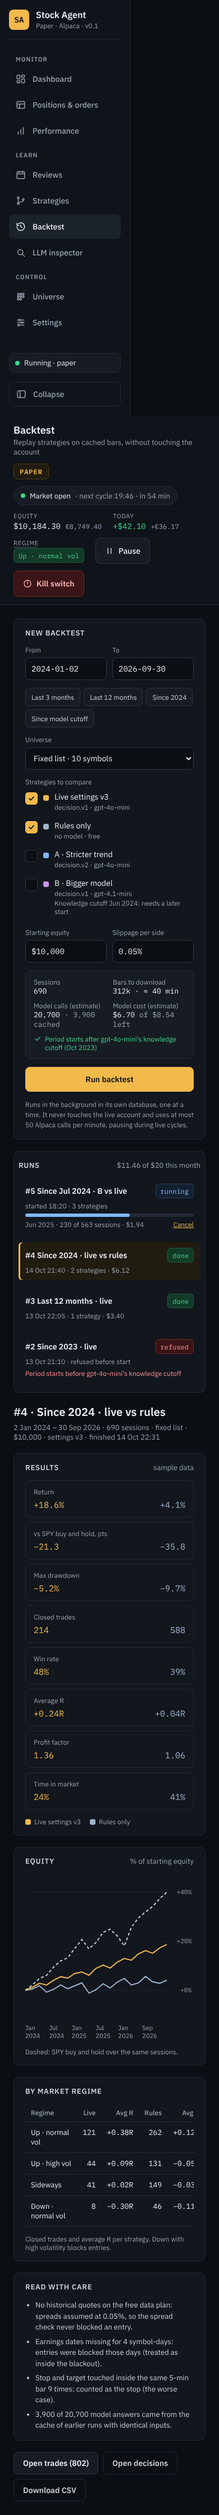
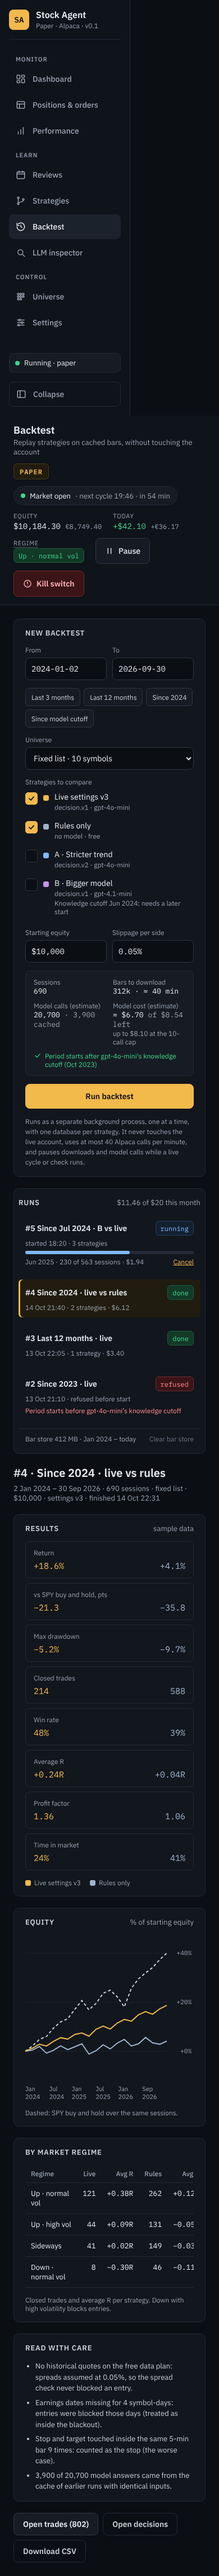
Spec change

diff --git a/design/screens/Backtest.dc.html b/design/screens/Backtest.dc.html
@@ -114,11 +114,11 @@ table{border-collapse:collapse}
     <div><div style="font-size: 12px; color: #98A2AF">Sessions</div><div style="font-family: 'IBM Plex Mono', monospace">690</div></div>
     <div><div style="font-size: 12px; color: #98A2AF">Bars to download</div><div style="font-family: 'IBM Plex Mono', monospace">312k · ≈ 40 min</div></div>
     <div><div style="font-size: 12px; color: #98A2AF">Model calls (estimate)</div><div style="font-family: 'IBM Plex Mono', monospace">20,700 <span style="color: #98A2AF">· 3,900 cached</span></div></div>
-    <div><div style="font-size: 12px; color: #98A2AF">Model cost (estimate)</div><div style="font-family: 'IBM Plex Mono', monospace">$6.70 <span style="color: #98A2AF">of $8.54 left</span></div></div>
+    <div><div style="font-size: 12px; color: #98A2AF">Model cost (estimate)</div><div style="font-family: 'IBM Plex Mono', monospace">≈ $6.70 <span style="color: #98A2AF">of $8.54 left</span></div><div style="font-size: 12px; color: #98A2AF">up to $8.10 at the 10-call cap</div></div>
     <div style="grid-column: 1 / -1; display: flex; gap: 6px; align-items: flex-start; color: #3DD68C; font-size: 12px"><svg width="14" height="14" viewBox="0 0 24 24" fill="none" stroke="currentColor" stroke-width="2" stroke-linecap="round" stroke-linejoin="round" aria-hidden="true" style="flex: 0 0 14px"><polyline points="5 12 10 17 19 7"></polyline></svg><span>Period starts after gpt-4o-mini's knowledge cutoff (Oct 2023)</span></div>
   </div>
   <button type="button" style="height: 44px; padding: 0 16px; display: inline-flex; align-items: center; justify-content: center; gap: 8px; border-radius: 8px; border: 1px solid #F2B94B; background: #F2B94B; color: #0B0E13; font-size: 14px; font-weight: 600; text-decoration: none; cursor: pointer; white-space: nowrap; box-sizing: border-box"><span>Run backtest</span></button>
-  <span style="font-size: 12px; color: #98A2AF; line-height: 1.5">Runs in the background in its own database, one at a time. It never touches the live account and uses at most 50 Alpaca calls per minute, pausing during live cycles.</span>
+  <span style="font-size: 12px; color: #98A2AF; line-height: 1.5">Runs as a separate background process, one at a time, with one database per strategy. It never touches the live account, uses at most 40 Alpaca calls per minute, and pauses downloads and model calls while a live cycle or check runs.</span>
 </div>
 </section>
     <section aria-label="Runs" style="background: #12161D; border: 1px solid #232A35; border-radius: 10px; padding: 16px 8px; display: flex; flex-direction: column; gap: 14px; min-width: 0; box-sizing: border-box">
@@ -136,7 +136,7 @@ table{border-collapse:collapse}
 </div><div style="display: flex; flex-direction: column; gap: 6px; padding: 10px 12px; border-radius: 6px; ">
   <div style="display: flex; justify-content: space-between; gap: 8px; align-items: center"><span style="font-weight: 600; font-size: 14px">#2 Since 2023 · live</span><span style="display: inline-flex; align-items: center; height: 24px; padding: 0 8px; border-radius: 6px; font-family: 'IBM Plex Mono', monospace; font-size: 12px; white-space: nowrap; background: #3A1416; color: #FF8A8F; border: 1px solid #7A2A2E">refused</span></div>
   <span style="font-size: 12px; color: #98A2AF">13 Oct 21:10 · refused before start</span><span style="font-size: 12px; color: #FF8A8F">Period starts before gpt-4o-mini’s knowledge cutoff</span>
-</div>
+</div><div style="display: flex; justify-content: space-between; gap: 8px; padding: 10px 12px 2px; border-top: 1px solid #232A35; font-size: 12px; color: #98A2AF"><span>Bar store 412 MB · Jan 2024 – today</span><span title="Only when no backtest is running" style="color: #6B7480; white-space: nowrap">Clear bar store</span></div>
 </section>
   </div>
   <div style="flex: 999 1 560px; min-width: 0; display: flex; flex-direction: column; gap: 20px">

diff --git a/docs/SPEC.md b/docs/SPEC.md
@@ -370,18 +370,18 @@ SQLite, one file, migrations with Alembic. Times are stored in UTC; money as dec
 | `corporate_actions` | symbol, type, date, ratio or amount |
 | `settings_versions` | version, settings JSON, changed at, reason |
 | `strategies` | name, kind (llm or rules_only), prompt version, model, temperature, rule and check overrides JSON, status (active, paused, archived), created, archived at (v0.2) |
-| `shadow_decisions` | strategy, cycle, symbol, context, live decision (shares its input snapshot), model output JSON, final action, gates result, tokens, cost, missed and its reason (time or cost_cap) (v0.2) |
+| `shadow_decisions` | strategy, cycle, symbol, context, live decision (shares its input snapshot), own input snapshot (only for a symbol only a shadow holds), model output JSON, final action, gates result, tokens, cost, missed and its reason (time or cost_cap) (v0.2) |
 | `shadow_positions` | strategy, symbol, qty, entry, stop, target, opened, closed, exit reason, R (v0.2) |
 | `shadow_equity` | strategy, time, equity (v0.2) |
-| `backtests` | name, period, universe mode, strategies JSON, starting equity, slippage, status, progress, cost, run database path, warnings JSON, summary JSON, created, finished (v0.2) |
-| `llm_cache` | key hash (model, temperature, prompt version and hash, input snapshot hash), response JSON, tokens, created (v0.2) |
+| `backtests` | name, period, universe mode, strategies JSON, starting equity, slippage, status (queued, downloading, running, done, cancelled, stopped at cost cap, interrupted, refused), progress, cost, run folder path, process id, cancel and pause flags, size on disk, warnings JSON, summary JSON, created, finished (v0.2) |
+| `llm_cache` | key hash (model, temperature, prompt version and hash, input snapshot hash), model, temperature, prompt hash, cycle time, response JSON, tokens, created (v0.2) |
 | `universe_pool` | symbol, sector, source (default, added or import), added at, removed at (v0.2) |
 | `universe_screens` | session date, symbol, status (eligible, excluded or warming_up), check results JSON, last close, average dollar volume, return vs SPY, rank, failed screens in a row (v0.2) |
 | `notifications` | time, event, severity, subject, channels, status per channel (sent, failed, held back, quiet hours), error |
 | `secrets` | name (alpaca_key_id, alpaca_secret, openai, finnhub, smtp_password), encrypted value, last 4 characters, saved at, tested at, test result |
 | `events` | time, level, type (reconciliation, kill switch, error, acknowledgment), details JSON |
 
-A daily copy of the database is made at 03:00 Amsterdam time with SQLite's online backup API (never a plain file copy, which can catch a write half-done), checked with `PRAGMA integrity_check`, and kept for 14 days. Migrations are never edited once merged; a schema change is always a new revision. At startup the app compares the schema with the models and refuses to start with a clear message if they differ.
+Every connection uses WAL mode and a busy timeout (`storage.sqlite_busy_timeout_seconds`, 30). No job keeps a write transaction open while it waits for a model call or any other network call. A daily copy of the database is made at 03:00 Amsterdam time with SQLite's online backup API (never a plain file copy, which can catch a write half-done), checked with `PRAGMA integrity_check`, and kept for 14 days. Migrations are never edited once merged; a schema change is always a new revision. At startup the app compares the schema with the models and refuses to start with a clear message if they differ.
 
 ## Testing and engineering rules
 
@@ -414,7 +414,7 @@ Ten PRs for v0.1, each reviewable on its own; v0.2 continues with PR 11 to 14. P
 11. **Pool and liquidity screen (v0.2).** `universe_pool` and `universe_screens`, pool loading from `pool.csv`, add/import/remove, warm-up, daily screen with hysteresis, rank, universe mode in Settings, Universe screen. Default mode stays `fixed`. *Done when:* in simulated mode the screen over the 72-symbol pool gives the expected statuses, and fixed mode is unchanged.
 12. **Cycles at scale (v0.2).** Cycles over eligible plus held symbols, multi-symbol bar requests, model calls in rank order, cycle duration and warning, 5-min bar pruning, dashboard watchlist filters and search. *Done when:* a simulated session with the 72-symbol pool keeps every cycle under 10 minutes and under 150 Alpaca calls per minute, and every held position is handled.
 13. **Strategies and shadows (v0.2).** `strategies`, shadow runner after each live cycle, virtual portfolios and fills, rules-only baseline, shadow cost cap, comparison and disagreements, Promote to live via Settings, Strategies screen. *Done when:* in simulated mode two shadows and the rules-only baseline run alongside live for a full session without delaying any live cycle, and a test proves the shadow code cannot reach the broker.
-14. **Backtesting (v0.2).** Backtest worker on the live cycle code with the fake broker, per-run database, historical data download within its own rate limit, lookahead guards, simulated fills, model-cutoff check, answer cache, estimate and cost cap, results and Backtest screen. *Done when:* a rules-only backtest over 3 months of cached bars gives the same trades twice, an LLM backtest before the model's cutoff is refused, and a lookahead test passes.
+14. **Backtesting (v0.2).** Backtest worker on the live cycle code with the fake broker, per-run database, historical data download within its own rate limit, lookahead guards, simulated fills, model-cutoff check, answer cache, estimate and cost cap, results and Backtest screen. *Done when:* a rules-only backtest over 3 months of cached bars gives the same trades twice, a live cycle starts on time while a backtest runs, an LLM backtest before the model's cutoff is refused, and a lookahead test passes.
 
 ## Reviews
 
@@ -484,13 +484,15 @@ A shadow strategy decides on exactly the same inputs as live, every cycle, but n
 
 A backtest replays strategies over past sessions with the same code that trades live, so results are comparable with the paper run. Built as PR 14.
 
-**Engine.** The cycle, rules, risk gates, sizing, position checks and outcome tracking are the live code, driven by an injected clock over historical sessions and the fake broker from simulated mode. Each run writes to its own SQLite file in `data/backtests/`; the live database only gets a summary row. Backtests never touch the Alpaca account. One run at a time, in a background worker, with progress, cancel and a summary at the end.
+**Engine.** The cycle, rules, risk gates, sizing, position checks and outcome tracking are the live code, driven by an injected clock over historical sessions and the fake broker from simulated mode. Each run has a folder `data/backtests/run-<id>/` with one full live-schema database per strategy (`<strategy-slug>.db`, created from the same migrations, each driven by its own engine instance) and a read-only `market.db` with the run's earnings, news and corporate actions; the live schema gets no strategy column. Strategies advance in lockstep, session by session on one clock, so progress, cancel and the cost cap stop them all at the same point. The live database only gets the `backtests` summary row; deleting a run removes its folder and that row, and the runs list shows each run's size on disk. Backtests never touch the Alpaca account.
 
-**Data.** 5-min and daily bars come from the cache; missing ranges are downloaded from Alpaca (split-adjusted) at most 50 calls per minute, pausing during live cycles and checks. News comes from Alpaca's historical news, earnings dates from Finnhub's calendar history. Every input is cut at the decision time with the same delays as live (bars closed at least 16 minutes earlier, news published before the decision); tests check that no later data leaks in. Days with missing earnings data block entries for that symbol, and the results say so. There are no historical quotes on the free data plan, so the spread is assumed (0.05%) and the limit price uses the last 5-min close.
+**Process.** A run is a separate child process started by the app, one at a time, at lower CPU priority, so it never competes with live jobs for the Python interpreter. It reports progress, cost and status on the `backtests` row (committing after each update). Cancel sets a flag the child checks every session; if it hasn't stopped within 60 seconds, the app stops it by its PID. While a live cycle or position check runs, the app sets a pause flag that the child checks before every Alpaca download and every model call. On app shutdown the child is cancelled first; a run still marked running at startup becomes "interrupted" and keeps its results so far.
+
+**Data.** Historical bars live in a separate store, `data/backtests/bars.db` (the `bars_5m` and `bars_1d` schema, split-adjusted, never pruned automatically), so the live cache keeps its 120-session limit. Before a run, the worker fills the period into the store, first copying what the live cache has, then downloading the rest from Alpaca at most 40 calls per minute (live keeps its 150; Alpaca allows 200 per account), pausing during live cycles and checks. During a run, bars are read only from the store, read-only, never from the live database. The Backtest screen shows the store's size; "Clear bar store" is only possible when no run is active. The 03:00 backup covers the live database only. News comes from Alpaca's historical news, earnings dates from Finnhub's calendar history. Every input is cut at the decision time with the same delays as live (bars closed at least 16 minutes earlier, news published before the decision); tests check that no later data leaks in. Days with missing earnings data block entries for that symbol, and the results say so. There are no historical quotes on the free data plan, so the spread is assumed (0.05%) and the limit price uses the last 5-min close.
 
 **Fills.** Bracket orders are simulated on 5-min bars: an entry fills when a bar trades at or through the limit before the entry timeout; stops and targets are checked on every bar; when both are touched in the same bar the stop counts. Slippage per side applies (0.05% by default, editable per run). Commission is zero, as at Alpaca.
 
-**Model calls.** An `llm` strategy can only be backtested from the day after its model's knowledge cutoff (from `backtest.model_cutoffs`); an earlier start is refused before the run begins, because the model may already know what happened. Answers are cached by model, temperature, prompt version and hash, and input snapshot hash, so a rerun on the same inputs costs nothing and gives the same result. Before a run starts the screen shows the number of sessions, bars to download, estimated model calls (minus cache hits) and estimated cost. Backtests have their own monthly cap ($20); a run that reaches it stops cleanly and keeps its results so far.
+**Model calls.** An `llm` strategy can only be backtested from the day after its model's knowledge cutoff (from `backtest.model_cutoffs`); an earlier start is refused before the run begins, because the model may already know what happened. Answers are cached by model, temperature, prompt version and hash, and input snapshot hash, so a rerun on the same inputs costs nothing and gives the same result. Before a run starts the screen shows the number of sessions, bars to download, estimated model calls, estimated cache hits and estimated cost, plus the cost at the 10-call cap. Calls per LLM strategy = sessions × cycles × that strategy's average real calls per cycle in the current run (a shadow uses its own average once it has at least 20 cycles, otherwise live's; with no history the 10-call cap); rules-only is 0. Cache hits = `llm_cache` rows with the same model, temperature and prompt hash whose cycle time falls in the period, labelled "≈". Cost = (calls − cache hits) × the strategy's average tokens per call × `model_prices`. Run is disabled when the expected cost is above what is left of the monthly cap; when only the cost at the cap is above it, a warning says the run may stop early. Backtests have their own monthly cap ($20); a run that reaches it stops cleanly and keeps its results so far.
 
 **Runs.** A run has a period (at most 3 years), the universe (fixed list, or the screened pool applied day by day with only the data available that day, flagged for survivorship bias because the pool is today's list), the strategies to compare (live settings, any shadow, rules only), starting equity and slippage.
 

diff --git a/docs/CHANGES.md b/docs/CHANGES.md
@@ -2,10 +2,17 @@
 
 Newest first.
 
-## 2026-10-20 — PR 13 review fixes (added by Devin)
+## 2026-10-21 — Answers to PR 14 questions
 
-- Storage: SQLite runs in WAL mode with a busy timeout (`storage.sqlite_busy_timeout_seconds: 30`), so a writer waits for the lock instead of failing. Shadow work commits before every model call and never holds a write lock across an await.
-- Data model: `shadow_decisions` also stores `input_snapshot` for a symbol only shadows hold, because live makes no decision for it and so there is no live row to share.
+- Run layout: `data/backtests/run-<id>/` with one live-schema DB per strategy and a read-only `market.db` (earnings, news, corporate actions); no strategy column in the live schema; strategies advance in lockstep; deleting a run removes its folder.
+- Bars: separate never-pruned store `data/backtests/bars.db`, filled before a run (copy from live cache, then download); runs read bars only from it; not in the 03:00 backup; size shown, "Clear bar store" when idle.
+- Estimate: calls from each strategy's average real calls per cycle (fallback live's, then the 10-call cap; rules-only 0), cache hits from `llm_cache` by model, temperature, prompt hash and cycle time (new `cycle_time` column), cost via `model_prices`; also the cost at the cap; Run disabled only when the expected cost exceeds what's left.
+- Process: child process, one at a time, lower priority; progress on the `backtests` row; cancel flag, stop by PID after 60 s; pause flag during live cycles and checks before every download and model call; interrupted runs keep partial results. Backtest download limit lowered from 50 to 40 calls per minute so live's 150 plus backtests stay under Alpaca's 200.
+
+## 2026-10-21 — PR 13 merge follow-ups
+
+- Data model: `shadow_decisions` gains `input_snapshot`, filled only for symbols that only a shadow holds (other rows share live's snapshot), and `missed_reason`.
+- Storage: every SQLite connection uses WAL and a busy timeout (`storage.sqlite_busy_timeout_seconds: 30`); no job keeps a write transaction open across a model or network call (found in PR 13: the shadow runner held its write lock during model calls). AGENTS.md: new hard rule 13.
 
 ## 2026-10-20 — Answers from the PR 13 review
 

diff --git a/design/CHANGES.md b/design/CHANGES.md
@@ -2,6 +2,10 @@
 
 Newest first. Each entry names the screens it touches.
 
+## 2026-10-21 — Backtest: process, bar store, estimate
+
+- `Backtest.dc.html`: the estimate shows "≈" and the cost at the 10-call cap; the note under Run says separate process, one database per strategy, 40 Alpaca calls per minute and pausing during live cycles and checks; the Runs card shows the bar store size with "Clear bar store" (disabled while a run is active).
+
 ## 2026-10-19 — Briefing card, model call counter, Strategies, Backtest
 
 - `Main.dc.html`: summary tiles row (Positions, Model calls today with a bar against the 60-call maximum and cost, Since start); new "Daily briefing · 15:00" card next to the risk budget card, with fact chips and a footer (numbers checked, model and prompt, cost, next briefing).

diff --git a/AGENTS.md b/AGENTS.md
@@ -42,6 +42,7 @@ make test        # pytest with sockets blocked, vitest, playwright e2e when brow
 10. **Local only.** The backend binds to `127.0.0.1` in v0.1.
 11. **Migrations are immutable once merged.** A schema change is always a new Alembic revision; never edit or reorder a merged one.
 12. **Processes.** Never kill processes by name or broad pattern. Stop only a process you started, by its PID.
+13. **No write lock across a network call.** Commit before any model, broker or data call; never keep a SQLite write transaction open while awaiting I/O. Live jobs and shadows share one event loop and one database file.
 
 ## Conventions
 
